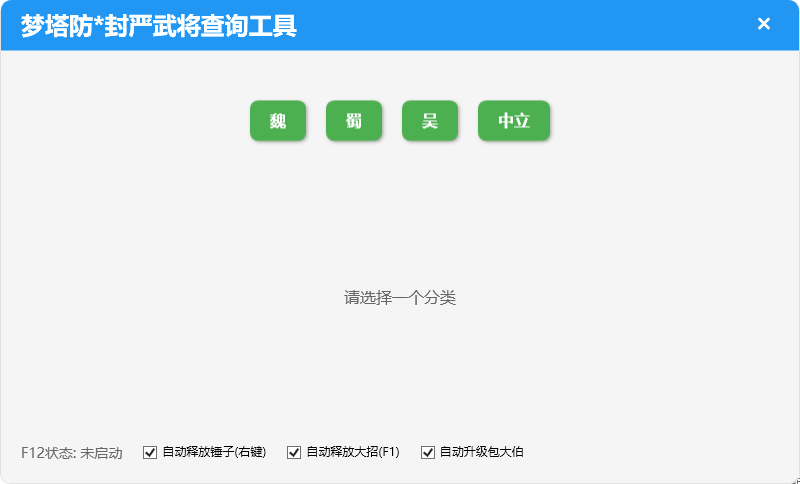
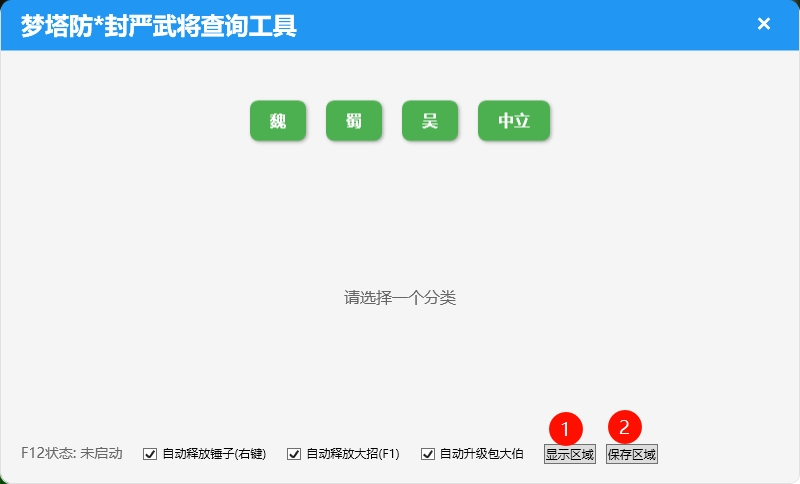
readme

diff --git a/readme.md b/readme.md
@@ -4,9 +4,15 @@
 
 ![Image](https://raw.githubusercontent.com/nomoneynolife/ThreeKingdomsHeroes/master/1.jpg)
 
+![Image](https://raw.githubusercontent.com/nomoneynolife/ThreeKingdomsHeroes/master/用法.jpg)
+
 ### 开源说明   
-直接用把，小众，腱鞘炎发了，点鼠标手疼，手搓一个方便打游戏   
+用法：显示区域，框选对应的区域，鼠标移动的区域上会显示区域的名称   
+   
+直接用把，小众，腱鞘炎发了，点鼠标手疼，手搓一个方便打游戏  
+    
 声明：本工具未读取游戏内存数据，也未对游戏内存进行修改。所有操作均基于屏幕上的图标检测和模拟点击。   
+   
 关于内存读取：感觉没啥必要性，不是LOL等竞技游戏，对毫秒级释放的要求不是很高，本工具只是为了方便打游戏，不是为了搞事情。   
    
 ### 开源协议
